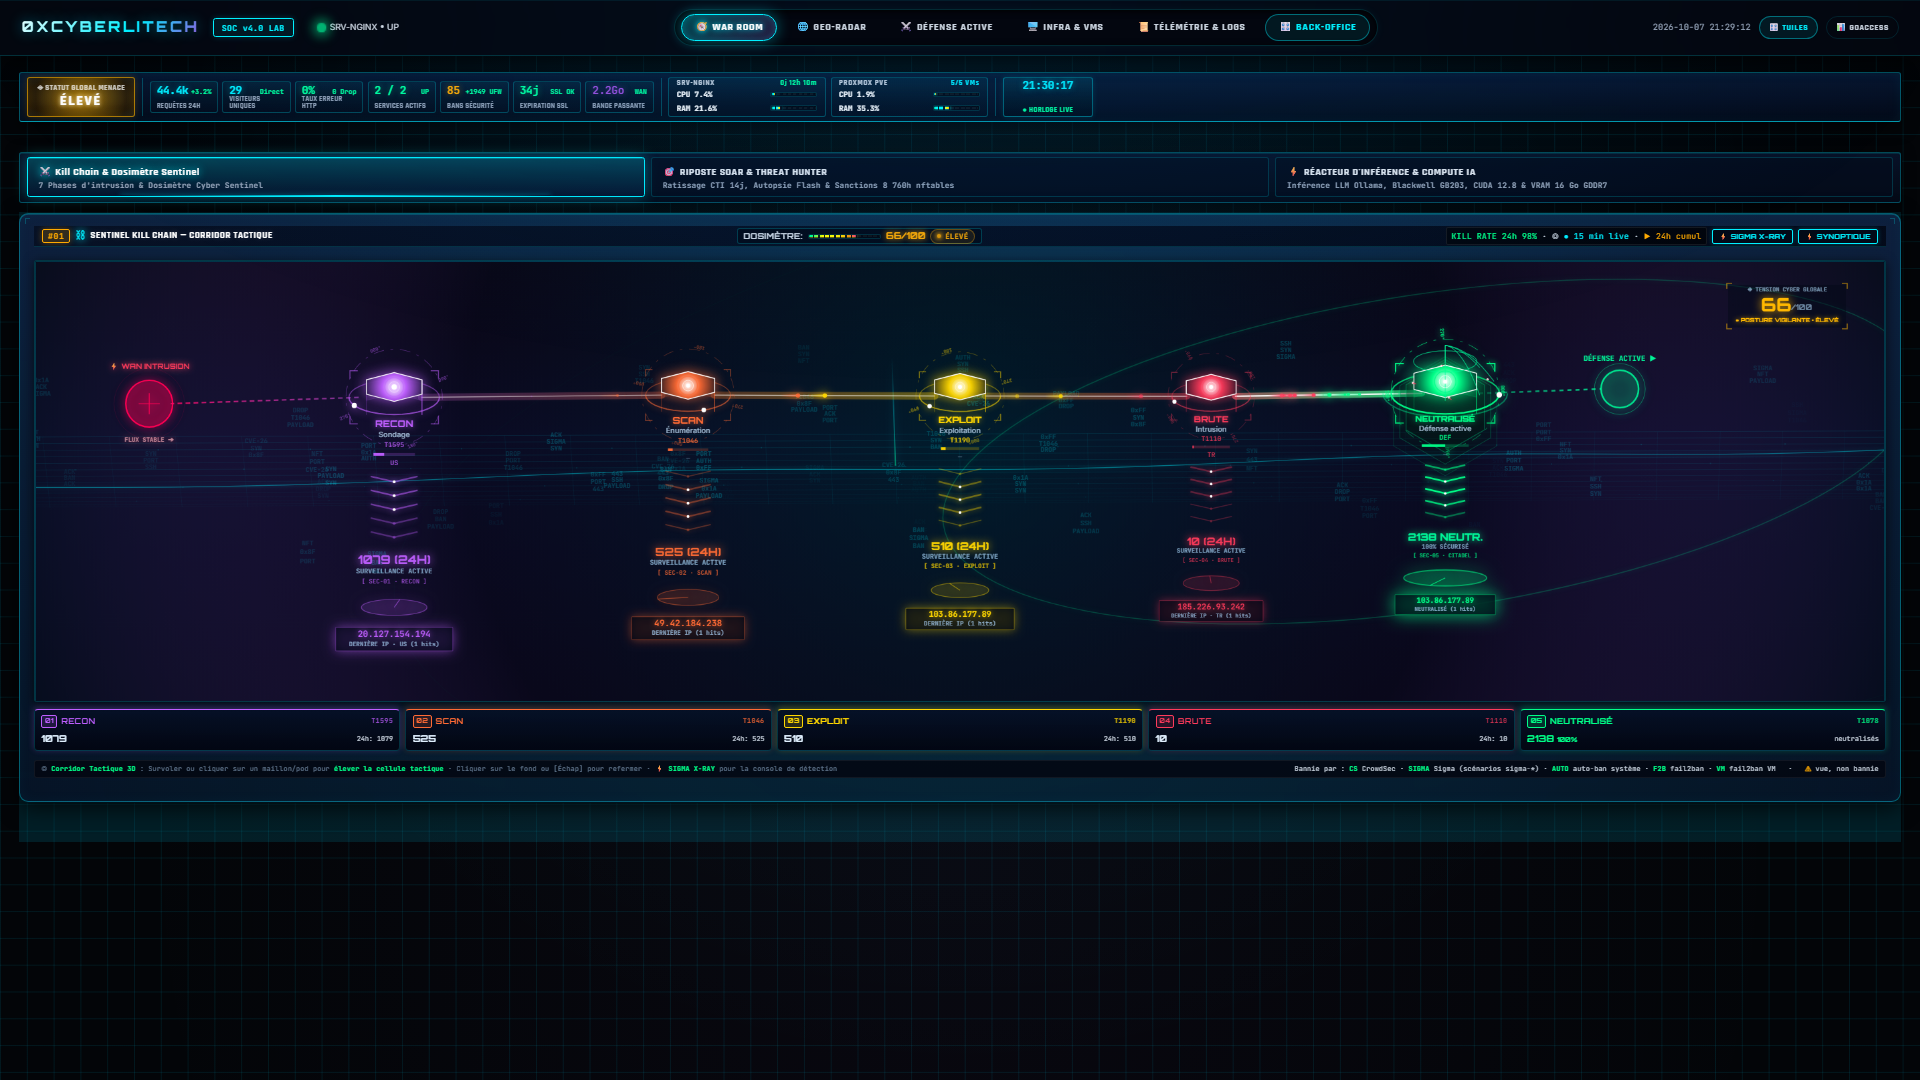
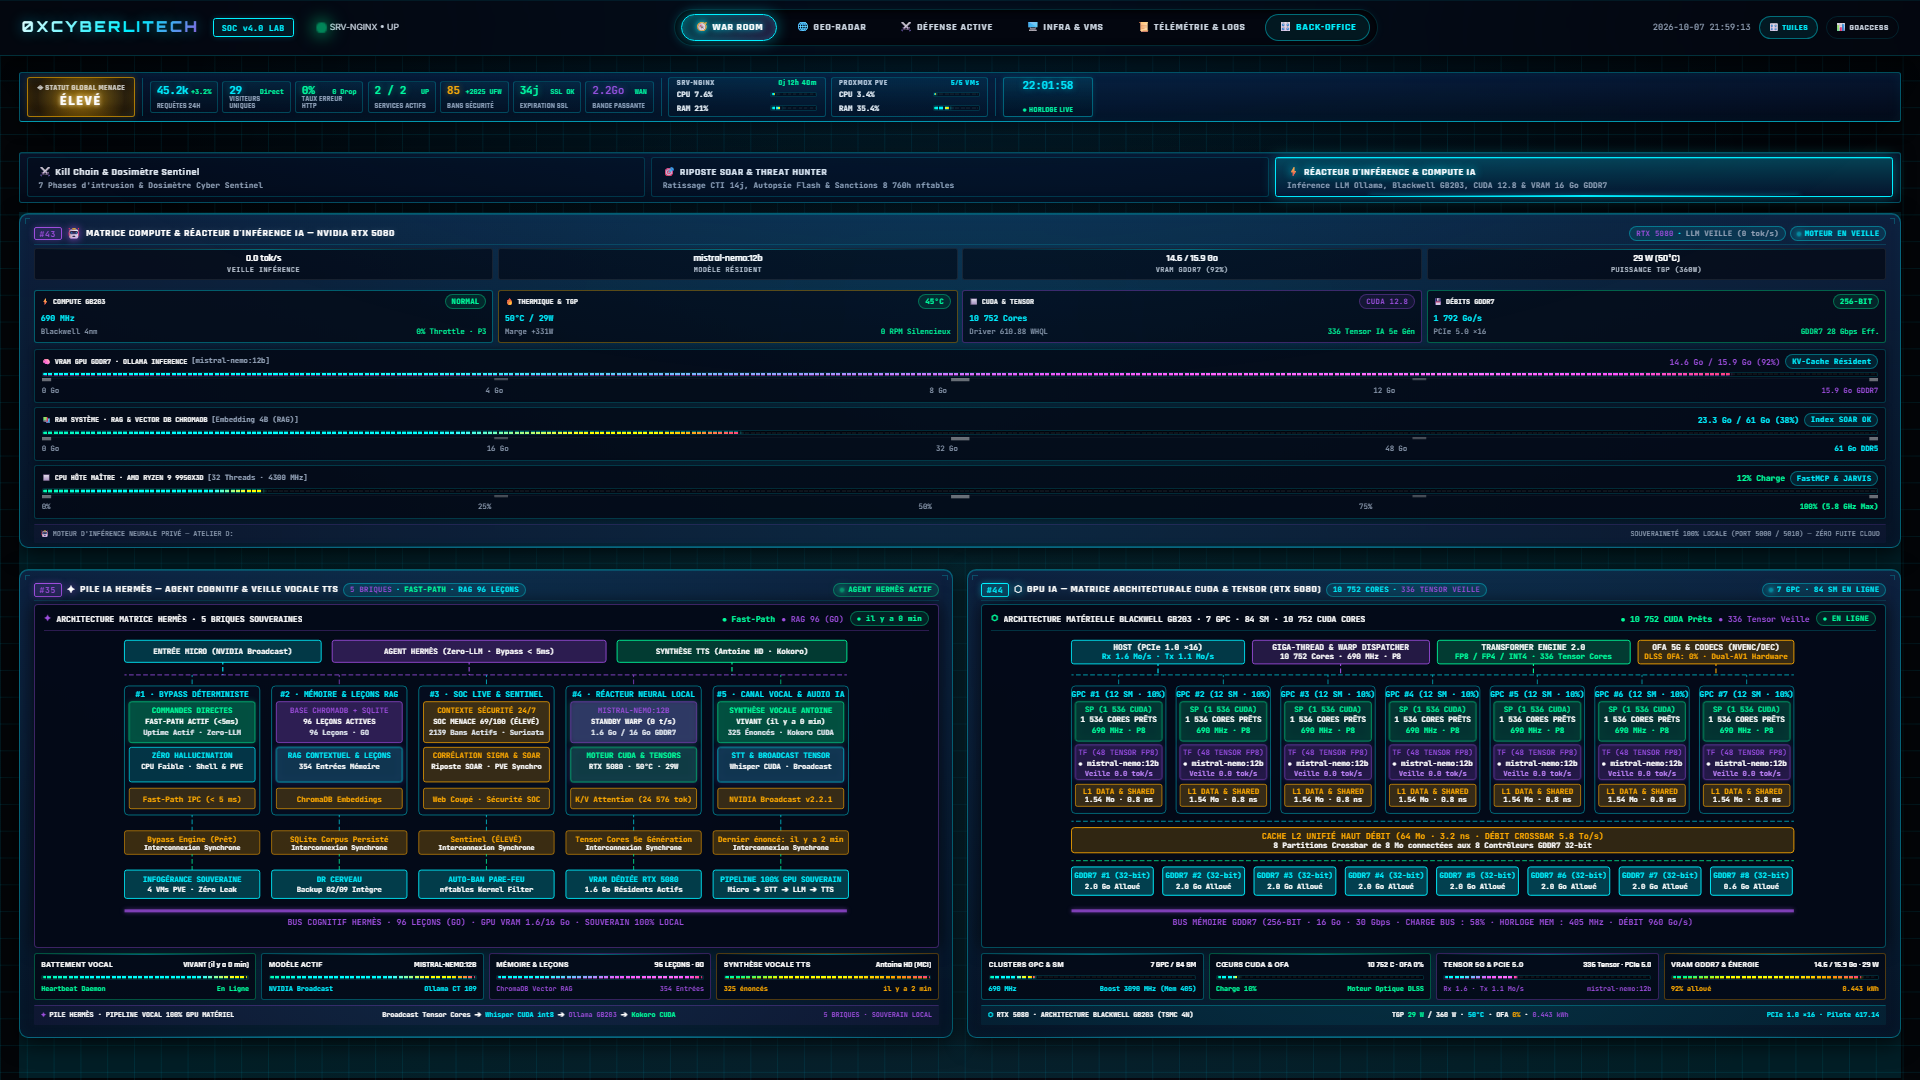
docs(vitrine): mise a jour du screen Reacteur IA (#43 RTX 5080, #35 Hermes, #44 CUDA), integration de la Dorsale/Bus de telemetrie et des sous-interfaces Kill Chain

diff --git a/README.md b/README.md
@@ -73,16 +73,17 @@
 ## 🗺 Sommaire Pédagogique
 
 - 🎯 [1. Manifeste d'Ingénierie : L'Exigence Souveraine face aux Homelabs Ordinaires](#1--manifeste-dingénierie--lexigence-souveraine-face-aux-homelabs-ordinaires)
-- 🔄 [2. Schéma Conceptuel Global : Le Cycle Nodal de Cyberdéfense](#2--schéma-conceptuel-global--le-cycle-nodal-de-cyberdéfense)
-- 🎛 [3. Le Cockpit Extreme HUD & l'Ossature en Caissons Étanches](#3--le-cockpit-extreme-hud--lossature-en-caissons-étanches)
-- 🧩 [4. Le Studio Back-Office & la Grille Aimantée Modulaire](#4--le-studio-back-office--la-grille-aimantée-modulaire)
-- 🌐 [5. Le Géo-Radar Vectoriel 2D & Traçage Balistique](#5--le-géo-radar-vectoriel-2d--traçage-balistique)
-- ⚙ [6. Le Synoptique Dynamique d'Attaque & Tableau de Bord du Moteur SIGMA](#6--le-synoptique-dynamique-dattaque--tableau-de-bord-du-moteur-sigma)
-- 🤖 [7. Le Réacteur d'Inférence IA, Matrice Neurale & Voix Souveraine](#7--le-réacteur-dinférence-ia-matrice-neurale--voix-souveraine)
-- 📐 [8. Dette Technique Zéro : La Règle d'Or du Plafond $\le 400$ Lignes](#8--dette-technique-zéro--la-règle-dor-du-plafond-le-400-lignes)
-- 🧪 [9. L'Armure Qualité : 19 Gardiens Déterministes & Bancs Hostiles Niveau 4](#9--larmure-qualité--19-gardiens-déterministes--bancs-hostiles-niveau-4)
-- 🖥 [10. Topologie Synoptique du Homelab (Anonymisée)](#10--topologie-synoptique-du-homelab-anonymisée)
-- 🔄 [11. Résilience & Disaster Recovery en 5 Minutes](#11--résilience--disaster-recovery-en-5-minutes)
+- 🔄 [2. Schéma Conceptuel Global : Dorsale de Collecte, Bus de Télémétrie & Cycle Nodal](#2--schéma-conceptuel-global--dorsale-de-collecte-bus-de-télémétrie--cycle-nodal)
+- ⚔ [3. Le Corridor Tactique Kill Chain & ses Sous-Interfaces Intégrées](#3--le-corridor-tactique-kill-chain--ses-sous-interfaces-intégrées)
+- 🎛 [4. Le Cockpit Extreme HUD & l'Ossature en Caissons Étanches](#4--le-cockpit-extreme-hud--lossature-en-caissons-étanches)
+- 🧩 [5. Le Studio Back-Office, Catalogue de Tuiles & Grille Aimantée Modulaire](#5--le-studio-back-office-catalogue-de-tuiles--grille-aimantée-modulaire)
+- 🌐 [6. Le Géo-Radar Vectoriel 2D & Traçage Balistique](#6--le-géo-radar-vectoriel-2d--traçage-balistique)
+- ⚙ [7. Le Synoptique Dynamique d'Attaque & Tableau de Bord du Moteur SIGMA](#7--le-synoptique-dynamique-dattaque--tableau-de-bord-du-moteur-sigma)
+- 🤖 [8. Le Réacteur d'Inférence IA, Matrice Neurale & Voix Souveraine](#8--le-réacteur-dinférence-ia-matrice-neurale--voix-souveraine)
+- 📐 [9. Dette Technique Zéro : La Règle d'Or du Plafond $\le 400$ Lignes](#9--dette-technique-zéro--la-règle-dor-du-plafond-le-400-lignes)
+- 🧪 [10. L'Armure Qualité : 19 Gardiens Déterministes & Bancs Hostiles Niveau 4](#10--larmure-qualité--19-gardiens-déterministes--bancs-hostiles-niveau-4)
+- 🖥 [11. Topologie Synoptique du Homelab (Anonymisée)](#11--topologie-synoptique-du-homelab-anonymisée)
+- 🔄 [12. Résilience & Disaster Recovery en 5 Minutes](#12--résilience--disaster-recovery-en-5-minutes)
 
 ---
 
@@ -104,51 +105,63 @@ Bâti sous la gouvernance martiale de la **Doctrine Universelle de l'Atelier 0xC
 
 ---
 
-## 2. 🔄 Schéma Conceptuel Global : Le Cycle Nodal de Cyberdéfense
+## 2. 🔄 Schéma Conceptuel Global : Dorsale de Collecte, Bus de Télémétrie & Cycle Nodal
 
-Le système fonctionne comme un organisme de surveillance unifié. Chaque menace externe est captée, normalisée, corrélée et neutralisée de manière déterministe, pendant que l'opérateur en reçoit la restitution visuelle et vocale instantanée :
+L'architecture du SOC repose sur une séparation stricte entre la collecte d'infrastructure, l'acheminement des métriques et la restitution opérateur :
 
 ```
                   [ CYBERESPACE : Scans, Bots, Exploits, Attaques C2 ]
                                             │
                                             ▼
 ┌─────────────────────────────────────────────────────────────────────────────────────────┐
-│ 1. CAPTEURS PÉRIPHÉRIQUES & FILTRAGE FRONTAL                                            │
-│ • Pare-feu Routeur Dédié Wi-Fi 7 (DPI)          • Filtrage UFW & blocage GeoIP MaxMind  │
+│ 1. DORSALE DE COLLECTE (BACKBONE SOUVERAIN)                                             │
+│ • Pare-feu Routeur Wi-Fi 7 (DPI)                • Filtrage UFW & blocage GeoIP MaxMind  │
 │ • CrowdSec AppSec WAF (~180 règles vpatch CVE)  • Suricata IDS 7 (AF_PACKET kernel)     │
 │ • Confinement d'accès AppArmor                  • Contrôle d'intégrité AIDE HIDS (4VMs) │
+│ • Récepteur central rsyslog TCP/UDP 514         • Sondes thermiques & hardware Proxmox  │
 └───────────────────────────────────────────┬─────────────────────────────────────────────┘
-                                            │ Flux d'événements et logs EVE JSON
+                                            │ Auscultation continue & flux EVE JSON
                                             ▼
 ┌─────────────────────────────────────────────────────────────────────────────────────────┐
-│ 2. PIPELINE DE NORMALISATION & MOTEUR SIGMA VERSIONNÉ                                   │
+│ 2. PIPELINE DE NORMALISATION & BUS D'ÉVÉNEMENTS                                         │
 │ • Parsing haute performance multi-sources       • Enrichissement CTI & listes d'assaut  │
 │ • Cycle Sigma : alert-only → dry-run → enforce  • Rail d'immunité RFC1918 (zéro fuite)  │
-│ • Classification cinématique 5 stades MITRE     • Empreinte temporelle des attaques     │
+│ • Corrélation croisée XDR (WAF + IDS + HIDS)    • Calcul du ThreatScore (0 à 100)       │
 └───────────────────────────────────────────┬─────────────────────────────────────────────┘
-                                            │ Payload unifié monitoring.json
+                                            │ Bus de Télémétrie structuré (< 200 ms)
                                             ▼
 ┌─────────────────────────────────────────────────────────────────────────────────────────┐
-│ 3. MOTEUR NODAL XDR & MATRICE DE MENACE (THREATSCORE 0-100)                             │
-│ • Corrélation croisée temps réel (WAF + IDS + HIDS + Authentification multi-hôtes)      │
-│ • Calcul instantané du ThreatScore (Faible / Moyen / Élevé / Critique)                  │
-│ • Détection des campagnes lentes (/24 sur 14 jours) et IoC post-compromission           │
-└───────────────────────────────────────────┬─────────────────────────────────────────────┘
-                                            │
-                    ┌───────────────────────┴───────────────────────┐
-                    ▼                                               ▼
-┌───────────────────────────────────────────────┐   ┌─────────────────────────────────────┐
-│ 4A. RESTITUTION VISUELLE TACTIQUE             │   │ 4B. RIPOSTE AUTOMATIQUE & IA SOAR   │
-│ • Cockpit Extreme HUD (catalogue de tuiles)   │   │ • Bannissement kernel-space nftables│
-│ • Corridor 3D Kill Chain (HTML5 Canvas pur)   │   │ • Passerelle vocale Windows MCI     │
-│ • Geo-Radar 2D balistique mondial             │   │ • Restitution vocale Antoine HD     │
-│ • Studio Back-Office à étagères modulables    │   │ • Fast-Path déterministe < 200 ms   │
-└───────────────────────────────────────────────┘   └─────────────────────────────────────┘
+│ 3. BUS DE REDISTRIBUTION DU COCKPIT & RIPOSTE                                           │
+│ • Distribution unifiée vers les 38 tuiles autonomes du Cockpit Extreme HUD              │
+│ • Routage instantané vers la passerelle vocale native Windows MCI (Antoine HD)          │
+│ • Déclenchement déterministe des ripostes kernel-space nftables (bannissements SOAR)    │
+└─────────────────────────────────────────────────────────────────────────────────────────┘
 ```
+
+### Le Principe de la Dorsale & du Bus de Redistribution :
+* **La Dorsale d'Ingestion (Backbone) :** Les composants de production (VMs, hyperviseur, conteneurs, routeur frontal) ne sont jamais sollicités directement par l'interface. Une dorsale dédiée va moissonner en permanence les journaux, les sondes matérielles et les flux réseau, garantissant une charge d'auscultation ultra-légère et non intrusive sur la production.
+* **Le Bus de Télémétrie & Corrélation :** Ce bus normalise les événements hétérogènes en un modèle de données unifié (`monitoring.json`). Il calcule en direct la corrélation temporelle des assauts, la classification MITRE ATT&CK et le score d'exposition global (*ThreatScore*).
+* **Redistribution Découplée :** Le bus redistribue ce flux normalisé en temps réel vers le Cockpit Extreme HUD, le moteur vocal souverain Antoine HD et les modules de contre-mesure. Une panne éventuelle sur un capteur isolé ne perturbe jamais l'acheminement des métriques du reste du homelab.
 
 ---
 
-## 3. 🎛 Le Cockpit Extreme HUD & l'Ossature en Caissons Étanches
+## 3. ⚔ Le Corridor Tactique Kill Chain & ses Sous-Interfaces Intégrées
+
+Le sommet du Cockpit War Room est occupé par le **Corridor Tactique 3D (#01)**, modélisant en temps réel les phases d'assaut adverse et offrant un ensemble de sous-interfaces de pilotage directement embarquées :
+
+### Les 4 Sous-Interfaces Maîtresses de la Kill Chain :
+* **1. Le Corridor Tactique 3D & Dosimètre Sentinel :**
+  Visualisation en HTML5 Canvas des 7 phases de la Kill Chain (Reconnaissance, Scan, Exploitation, Intrusion Brute-force, Déplacement latéral, C2, Neutralisation). Chaque cellule d'attaque s'élève dynamiquement au survol avec affichage des compteurs cumulés 24h et des pods d'attaquants en direct.
+* **2. Le Synoptique Dynamique d'Attaque (`⚡ SYNOPTIQUE`) :**
+  Sous-interface filaire (Wireframe) accessible en un clic, basculant la Kill Chain en cartographie causale directe : tracé balistique entre le cyberespace et les cibles, pods cyber détaillés (IPs, ASN, pays, sévérité), bus lumineux pulsants et mise en correspondance instantanée des techniques MITRE ATT&CK et contre-mesures D3FEND.
+* **3. La Console Vectorielle SIGMA X-RAY (`⚡ SIGMA X-RAY`) :**
+  Sous-interface interactive d'auscultation du moteur de règles. Elle affiche en direct les signatures en cours de traitement, le stade d'activation (`alert-only`, `dry-run`, `enforce`), les critères de détection déclenchés et les preuves forensiques associées.
+* **4. Les Modales Forensiques au Clic (Drill-Down Nodal) :**
+  Cliquer sur n'importe quel maillon ou pod de la Kill Chain déclenche une modale d'investigation immédiate sans rechargement de page, révélant les requêtes brutes, le reverse DNS, les correspondances honeypots et l'historique 30 jours de la menace.
+
+---
+
+## 4. 🎛 Le Cockpit Extreme HUD & l'Ossature en Caissons Étanches
 
 L'interface opérateur est conçue selon les principes d'ergonomie et de lisibilité d'un cockpit de défense (**Extreme HUD**) :
 
@@ -159,13 +172,13 @@ L'interface opérateur est conçue selon les principes d'ergonomie et de lisibil
   4. *Infrastructure :* Hyperviseur Proxmox VE, intégrité AIDE HIDS (4 VMs), surveillance des crons et connectivité réseau.
   5. *Télémétrie XDR :* Logigramme nodal interactif, analyse forensique et historique 30 jours.
 * **Le Concept Révolutionnaire des Caissons Étanches :**
-  Chaque tuile est un sous-module JavaScript autonome et étanche. Elle ne dépend d'aucune tuile voisine et tire son état uniquement du flux de données normalisé. Modifier ou enrichir une tuile se fait sans aucun risque de régression sur le reste du Cockpit.
+  Chaque tuile est un sous-module JavaScript autonome et étanche. Elle ne dépend d'aucune tuile voisine et tire son état uniquement du flux du bus de télémétrie. Modifier ou enrichir une tuile se fait sans aucun risque de régression sur le reste du Cockpit.
 * **Normalisation des Bargraphes LED :**
   Tous les affichages volumétriques et jauges respectent le conteneur étalon `.cyber-gauge-track` avec remplissage dynamique `.cyber-gauge-fill` (cyan, vert, ambre, violet, rouge), assurant une harmonie visuelle sans faille.
 
 ---
 
-## 4. 🧩 Le Studio Back-Office, Catalogue de Tuiles & Grille Aimantée Modulaire
+## 5. 🧩 Le Studio Back-Office, Catalogue de Tuiles & Grille Aimantée Modulaire
 
 Pour offrir une gouvernance souveraine et un contrôle absolu sur l'affichage sans jamais altérer le code source en production, le SOC intègre un **Studio Back-Office complet** adossé à son catalogue unifié :
 
@@ -182,7 +195,7 @@ Pour offrir une gouvernance souveraine et un contrôle absolu sur l'affichage sa
 
 ---
 
-## 5. 🌐 Le Géo-Radar Vectoriel 2D & Traçage Balistique
+## 6. 🌐 Le Géo-Radar Vectoriel 2D & Traçage Balistique
 
 Pour géolocaliser instantanément les origines d'attaque sans dépendre de services cartographiques externes lents ou indiscrets, le SOC embarque un **Geo-Radar 2D codé en HTML5 Canvas pur** :
 
@@ -196,7 +209,7 @@ Pour géolocaliser instantanément les origines d'attaque sans dépendre de serv
 
 ---
 
-## 6. ⚙ Le Synoptique Dynamique d'Attaque & Tableau de Bord du Moteur SIGMA
+## 7. ⚙ Le Synoptique Dynamique d'Attaque & Tableau de Bord du Moteur SIGMA
 
 La détection d'intrusion ne repose pas sur de simples expressions régulières fragiles, mais sur un moteur **Detection-as-Code** appliquant les standards industriels **Sigma** et **MITRE ATT&CK**, directement matérialisé par le **Synoptique Dynamique d'Attaque** :
 
@@ -215,7 +228,7 @@ La détection d'intrusion ne repose pas sur de simples expressions régulières 
 
 ---
 
-## 7. 🤖 Le Réacteur d'Inférence IA, Matrice Neurale & Voix Souveraine
+## 8. 🤖 Le Réacteur d'Inférence IA, Matrice Neurale & Voix Souveraine
 
 Le SOC fusionne le renseignement cyber et l'intelligence artificielle locale (**JARVIS / Hermès**) déployée sur conteneur dédié avec accélération GPU matérielle :
 
@@ -235,7 +248,7 @@ Le SOC fusionne le renseignement cyber et l'intelligence artificielle locale (**
 
 ---
 
-## 8. 📐 Dette Technique Zéro : La Règle d'Or du Plafond $\le 400$ Lignes
+## 9. 📐 Dette Technique Zéro : La Règle d'Or du Plafond $\le 400$ Lignes
 
 L'Atelier 0xCyberLiTech applique une règle d'or formelle : **l'interdiction des fichiers monstres et des monolithes inmaintenables** (Règle 14.7 de la Doctrine Universelle).
 
@@ -257,7 +270,7 @@ L'Atelier 0xCyberLiTech applique une règle d'or formelle : **l'interdiction des
 
 ---
 
-## 9. 🧪 L'Armure Qualité : 19 Gardiens Déterministes & Bancs Hostiles Niveau 4
+## 10. 🧪 L'Armure Qualité : 19 Gardiens Déterministes & Bancs Hostiles Niveau 4
 
 La fiabilité de la plateforme ne repose sur aucune promesse verbale, mais sur des **preuves mécaniques déterministes** exécutées en continu :
 
@@ -272,7 +285,7 @@ La fiabilité de la plateforme ne repose sur aucune promesse verbale, mais sur d
 
 ---
 
-## 10. 🖥 Topologie Synoptique du Homelab (Anonymisée)
+## 11. 🖥 Topologie Synoptique du Homelab (Anonymisée)
 
 ```
                        [ ACCÈS INTERNET FIBRE ]
@@ -314,7 +327,7 @@ La fiabilité de la plateforme ne repose sur aucune promesse verbale, mais sur d
 
 ---
 
-## 11. 🔄 Résilience & Disaster Recovery en 5 Minutes
+## 12. 🔄 Résilience & Disaster Recovery en 5 Minutes
 
 Le SOC intègre une doctrine de résilience absolue validée par des exercices réguliers de sinistre :
 
